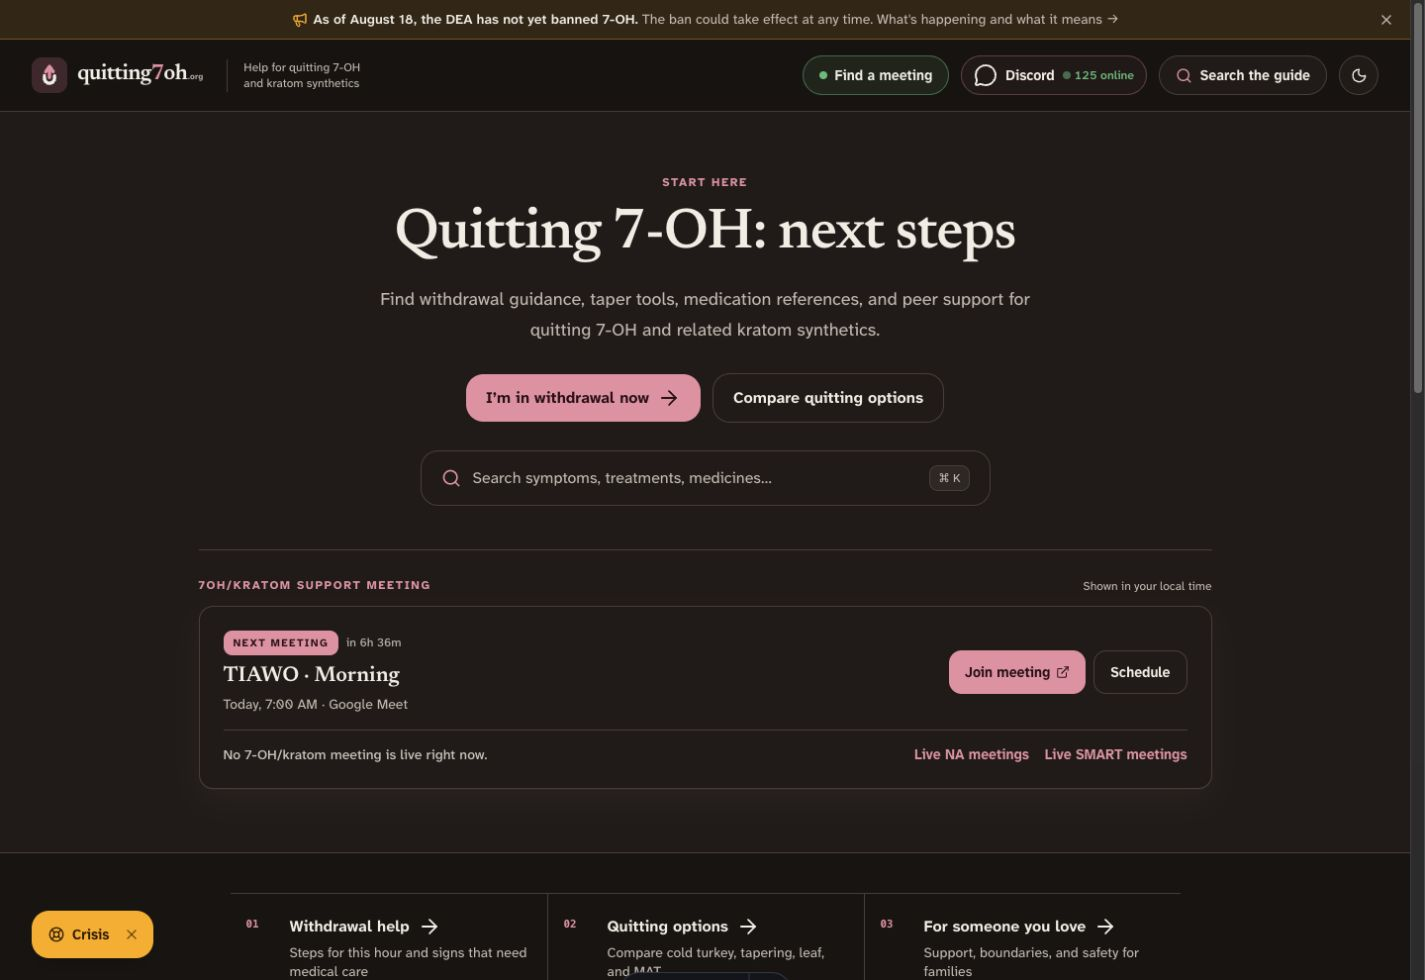
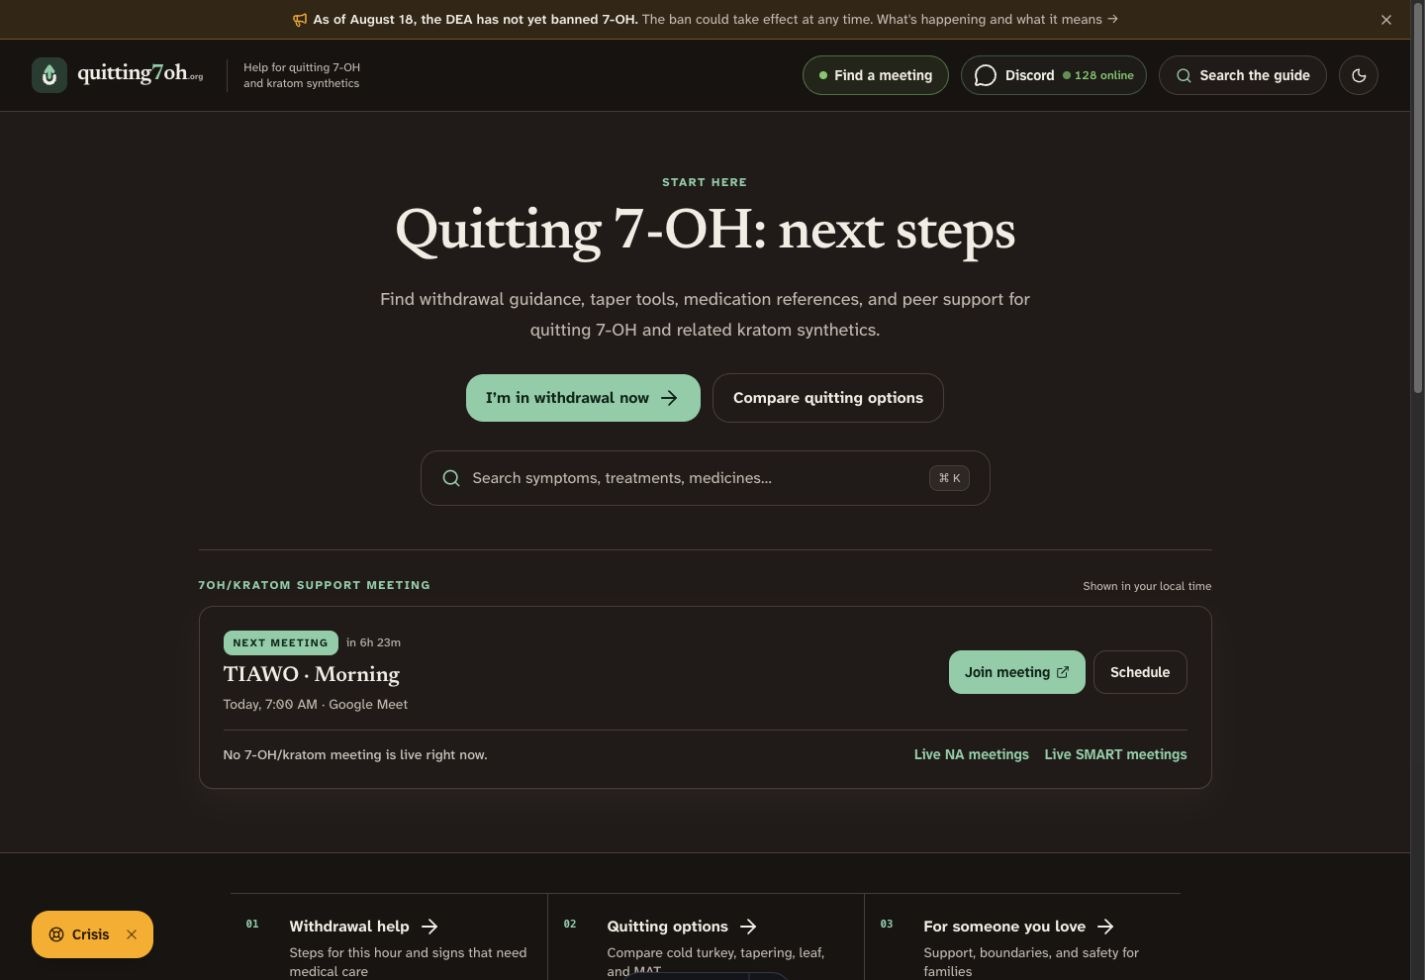
refine article hierarchy and adopt laurel palette

diff --git a/src/styles/global.css b/src/styles/global.css
@@ -19,24 +19,24 @@
 
 @custom-variant dark (&:where(.dark, .dark *));
 
-/* Field Guide design system: quiet paper, mulberry ink, warm signals. */
+/* Field Guide design system: quiet paper, laurel green, warm signals. */
 @theme {
   --font-sans: 'Atkinson Hyperlegible Next Variable', ui-sans-serif, system-ui,
     -apple-system, BlinkMacSystemFont, 'Segoe UI', sans-serif;
   --font-display: 'Newsreader Variable', ui-serif, Georgia, Cambria, serif;
   --font-mono: ui-monospace, SFMono-Regular, Menlo, Monaco, Consolas, monospace;
 
-  --color-accent-50: #fbf5f6;
-  --color-accent-100: #f5e8eb;
-  --color-accent-200: #eacfd6;
-  --color-accent-300: #dba9b7;
-  --color-accent-400: #c67c91;
-  --color-accent-500: #ad586f;
-  --color-accent-600: #913f57;
-  --color-accent-700: #773447;
-  --color-accent-800: #642f3e;
-  --color-accent-900: #562b37;
-  --color-accent-950: #30151d;
+  --color-accent-50: #f4f8f5;
+  --color-accent-100: #e7f0ea;
+  --color-accent-200: #cfe1d5;
+  --color-accent-300: #a9cab4;
+  --color-accent-400: #7eac90;
+  --color-accent-500: #5d8f70;
+  --color-accent-600: #467358;
+  --color-accent-700: #385c48;
+  --color-accent-800: #304b3c;
+  --color-accent-900: #293f34;
+  --color-accent-950: #14231c;
 }
 
 @theme inline {
@@ -91,36 +91,36 @@
     --card-foreground: 22 16% 14%;
     --popover: 44 44% 99%;
     --popover-foreground: 22 16% 14%;
-    --primary: 345 38% 35%;
+    --primary: 145 29% 32%;
     --primary-foreground: 44 52% 98%;
     --secondary: 38 24% 91%;
     --secondary-foreground: 22 15% 18%;
     --muted: 40 25% 93%;
     --muted-foreground: 24 10% 36%;
-    --accent: 344 31% 92%;
-    --accent-foreground: 344 37% 28%;
+    --accent: 144 23% 91%;
+    --accent-foreground: 145 32% 25%;
     --destructive: 2 62% 43%;
     --destructive-foreground: 0 0% 100%;
     --border: 38 20% 82%;
     --input: 38 22% 78%;
-    --ring: 345 52% 43%;
+    --ring: 145 42% 36%;
     --signal: 35 88% 46%;
     --signal-foreground: 32 80% 12%;
-    --success: 132 28% 34%;
+    --success: 104 35% 34%;
     --success-foreground: 150 40% 98%;
-    --chart-1: 345 38% 42%;
+    --chart-1: 145 32% 37%;
     --chart-2: 132 28% 38%;
     --chart-3: 35 78% 48%;
     --chart-4: 282 35% 49%;
     --chart-5: 3 55% 48%;
     --sidebar: 40 27% 94%;
     --sidebar-foreground: 22 15% 20%;
-    --sidebar-primary: 345 38% 35%;
+    --sidebar-primary: 145 29% 32%;
     --sidebar-primary-foreground: 44 52% 98%;
-    --sidebar-accent: 344 28% 90%;
-    --sidebar-accent-foreground: 344 37% 28%;
+    --sidebar-accent: 144 22% 89%;
+    --sidebar-accent-foreground: 145 32% 25%;
     --sidebar-border: 38 20% 81%;
-    --sidebar-ring: 345 52% 43%;
+    --sidebar-ring: 145 42% 36%;
   }
 
   html.dark {
@@ -131,36 +131,36 @@
     --card-foreground: 42 28% 92%;
     --popover: 22 13% 11%;
     --popover-foreground: 42 28% 92%;
-    --primary: 348 52% 72%;
-    --primary-foreground: 346 42% 11%;
+    --primary: 143 35% 69%;
+    --primary-foreground: 146 37% 10%;
     --secondary: 22 12% 17%;
     --secondary-foreground: 42 22% 88%;
     --muted: 22 11% 16%;
     --muted-foreground: 30 11% 72%;
-    --accent: 344 22% 20%;
-    --accent-foreground: 348 48% 82%;
+    --accent: 146 18% 20%;
+    --accent-foreground: 142 35% 82%;
     --destructive: 3 55% 48%;
     --destructive-foreground: 0 0% 100%;
     --border: 24 11% 25%;
     --input: 24 11% 30%;
-    --ring: 348 58% 70%;
+    --ring: 143 44% 68%;
     --signal: 38 90% 58%;
     --signal-foreground: 32 82% 10%;
-    --success: 132 36% 58%;
+    --success: 104 43% 61%;
     --success-foreground: 154 53% 9%;
-    --chart-1: 348 52% 72%;
+    --chart-1: 143 35% 69%;
     --chart-2: 132 36% 58%;
     --chart-3: 38 90% 58%;
     --chart-4: 283 55% 72%;
     --chart-5: 4 70% 68%;
     --sidebar: 22 14% 10%;
     --sidebar-foreground: 42 23% 86%;
-    --sidebar-primary: 348 52% 72%;
-    --sidebar-primary-foreground: 346 42% 11%;
-    --sidebar-accent: 344 22% 20%;
-    --sidebar-accent-foreground: 348 48% 82%;
+    --sidebar-primary: 143 35% 69%;
+    --sidebar-primary-foreground: 146 37% 10%;
+    --sidebar-accent: 146 18% 20%;
+    --sidebar-accent-foreground: 142 35% 82%;
     --sidebar-border: 24 11% 24%;
-    --sidebar-ring: 348 58% 70%;
+    --sidebar-ring: 143 44% 68%;
   }
 
   * {
@@ -284,37 +284,61 @@
     line-height: 1.72;
   }
 
-  .prose-recovery > :where(h1, h2, h3, h4) {
+  .prose-recovery > :where(h1, h2) {
     font-family: var(--font-display);
     color: hsl(var(--foreground));
-    font-weight: 600;
-    letter-spacing: -0.008em;
+    font-weight: 650;
+    letter-spacing: -0.012em;
   }
 
   .prose-recovery > h2 {
-    margin: 2.6rem 0 0.9rem;
-    font-size: clamp(1.45rem, 1.42rem + 0.2vw, 1.55rem);
-    line-height: 1.25;
+    margin: 3.4rem 0 1.15rem;
+    border-top: 1px solid hsl(var(--border));
+    padding-top: 1.15rem;
+    font-size: clamp(1.7rem, 1.62rem + 0.35vw, 1.92rem);
+    line-height: 1.18;
   }
 
   .prose-recovery > h3 {
-    margin: 2.1rem 0 0.75rem;
-    font-size: clamp(1.2rem, 1.17rem + 0.15vw, 1.3rem);
-    line-height: 1.3;
+    max-width: 43rem;
+    margin: 2.65rem 0 1rem;
+    border-left: 0.25rem solid hsl(var(--primary));
+    border-radius: 0 0.55rem 0.55rem 0;
+    background: hsl(var(--accent) / 0.68);
+    padding: 0.72rem 0.9rem 0.76rem;
+    color: hsl(var(--foreground));
+    font-family: var(--font-sans);
+    font-size: 1.16rem;
+    font-weight: 760;
+    letter-spacing: -0.005em;
+    line-height: 1.32;
   }
 
   .prose-recovery > h4 {
-    margin: 1.8rem 0 0.65rem;
-    font-size: 1.08rem;
-    line-height: 1.35;
+    max-width: 43rem;
+    margin: 2.15rem 0 0.7rem;
+    color: hsl(var(--primary));
+    font-family: var(--font-sans);
+    font-size: 1.02rem;
+    font-weight: 760;
+    letter-spacing: 0.01em;
+    line-height: 1.38;
   }
 
-  .prose-recovery > :first-child {
+  .prose-recovery > h2:first-child {
     margin-top: 0;
+    border-top: 0;
+    padding-top: 0;
   }
 
   .prose-recovery > p {
-    margin: 0 0 1.15rem;
+    max-width: 43rem;
+    margin: 0 0 1.25rem;
+  }
+
+  .prose-recovery > h3 + p {
+    color: hsl(var(--foreground));
+    font-weight: 500;
   }
 
   .prose-recovery :where(p, li) {
@@ -322,6 +346,7 @@
   }
 
   .prose-recovery :where(ul, ol):not(.not-prose *) {
+    max-width: 43rem;
     margin: 1.15rem 0 1.4rem;
     padding-left: 1.35rem;
   }
@@ -395,6 +420,7 @@
   }
 
   .prose-recovery :where(blockquote) {
+    max-width: 43rem;
     margin: 1.75rem 0;
     border: 0;
     border-left: 0.3rem solid hsl(var(--primary));

diff --git a/REDESIGN.md b/REDESIGN.md
@@ -22,12 +22,14 @@ repeating each category description.
   small sizes.
 - **Newsreader Variable** handles titles and section headings. Its moderate
   contrast adds warmth without turning the site into a magazine layout.
-- The reading column tops out at 48rem. Body copy is 17px on larger screens
-  and 16px on phones, with a 1.72 line height. Dose and schedule data use
-  tabular numerals.
+- The article column tops out at 48rem so tables and tools have room, while
+  paragraphs and lists stop at 43rem. Body copy is 17px on larger screens and
+  16px on phones, with a 1.72 line height. Dose and schedule data use tabular
+  numerals.
 - Content-page titles run from 2.1rem to 2.5rem. Article section headings stay
-  near 1.55rem. The larger display scale is reserved for the homepage.
-- Lists use familiar disc and decimal markers with restrained mulberry color.
+  near 1.9rem; 1.16rem sans-serif subsection bands create a second, clearly
+  different level. The larger display scale is reserved for the homepage.
+- Lists use familiar disc and decimal markers with restrained laurel color.
   The first pass's ring bullets and zero-padded counters were removed because
   they drew attention away from the text.
 
@@ -43,11 +45,11 @@ surface and contrast values.
 | --- | --- | --- | --- |
 | Page | `hsl(43 38% 97%)` | `hsl(22 14% 8%)` | Reading background |
 | Ink | `hsl(22 16% 14%)` | `hsl(42 28% 92%)` | Body and headings |
-| Mulberry | `hsl(345 38% 35%)` | `hsl(348 52% 72%)` | Links, navigation, ordinary action |
+| Laurel | `hsl(145 29% 32%)` | `hsl(143 35% 69%)` | Links, navigation, ordinary action |
 | Amber | `hsl(35 88% 46%)` | `hsl(38 90% 58%)` | Crisis and time-sensitive status |
-| Sage | `hsl(132 28% 34%)` | `hsl(132 36% 58%)` | Live meetings and available support |
+| Leaf | `hsl(104 35% 34%)` | `hsl(104 43% 61%)` | Live meetings and available support |
 
-Mulberry carries navigation and ordinary actions. Amber identifies urgency in
+Laurel carries navigation and ordinary actions. Amber identifies urgency in
 the banner, floating crisis control, and high-risk callouts.
 
 ## Space and layout

diff --git a/docs/brand/agent-context.md b/docs/brand/agent-context.md
@@ -49,14 +49,14 @@ way:**
 
 ## Non-negotiables (apply even before you fetch anything)
 
-- **Type:** headings/display = **Fraunces** (weight 600); body/UI = **IBM
-  Plex Sans**. Both are free (Google Fonts / Fontsource). Serif headings
-  over sans body is the signature — keep it.
-- **Default palette is "stone"** (warm). Light: background `#f6f1ea`,
-  text `#261f17`, primary `#604020`. Dark: background `#130f0b`, text
-  `#f6f5f3`, primary `#d5b890`. Dark mode is **not** a mechanical
-  inversion — use the dark values directly. (Seven more color variants
-  exist; stone is the default.)
+- **Type:** titles and major sections use **Newsreader**; body text,
+  controls, and subsections use **Atkinson Hyperlegible Next**. Both are
+  self-hosted variable fonts. The role split must stay visible.
+- **Palette:** warm paper and brown-charcoal ink with laurel green for
+  links and ordinary actions. Light: background `hsl(43 38% 97%)`, text
+  `hsl(22 16% 14%)`, primary `hsl(145 29% 32%)`. Dark: background
+  `hsl(22 14% 8%)`, text `hsl(42 28% 92%)`, primary
+  `hsl(143 35% 69%)`. Use the dark values directly.
 - **Style by role, not raw hex:** background, foreground, card, primary,
   secondary, muted, accent, border, destructive — each with a light and a
   dark value. Support both modes.
@@ -64,8 +64,8 @@ way:**
   it. The cup is stroked in the foreground color, the arrow in primary.
   Don't recolor outside that mapping, don't stretch or rotate it, don't
   add gradients or shadows. SVGs and favicons are in the repo.
-- **Shape:** 8px corner radius. Prefer borders over shadows. Always keep
-  a visible focus ring.
+- **Shape:** small radii, fine borders, and little or no shadow. Always
+  keep a visible focus ring.
 - **Voice:** calm, plain, factual. No marketing language, no hype, no
   urgency tricks, no dark patterns. The audience is people in recovery,
   often reading mid-withdrawal. When unsure, do less.

diff --git a/src/content/about/changelog.md b/src/content/about/changelog.md
@@ -18,6 +18,12 @@ This page tracks substantive changes to the site: new pages, rewrites, layout wo
 
 ### Redesign follow-up
 
+- Rebuilt long-form hierarchy: larger ruled H2 sections, sans-serif H3
+  subsection bands, stronger opening paragraphs, and a shorter text measure
+  inside the wider table-and-tool column.
+- Replaced mulberry with a muted laurel-green identity in light and dark mode.
+  Amber remains reserved for urgency, while live status uses a brighter leaf
+  green.
 - Expanded article pages to a 48rem reading measure, aligned page headers with
   the article column, removed the first-heading gap, and fixed a variable-font
   override that forced all weights to 400.

diff --git a/CHANGELOG.md b/CHANGELOG.md
@@ -10,6 +10,12 @@ the public changelog at `/about/changelog`, generated by
 
 ### Redesign follow-up
 
+- Rebuilt long-form hierarchy: larger ruled H2 sections, sans-serif H3
+  subsection bands, stronger opening paragraphs, and a shorter text measure
+  inside the wider table-and-tool column.
+- Replaced mulberry with a muted laurel-green identity in light and dark mode.
+  Amber remains reserved for urgency, while live status uses a brighter leaf
+  green.
 - Expanded article pages to a 48rem reading measure, aligned page headers with
   the article column, removed the first-heading gap, and fixed a variable-font
   override that forced all weights to 400.
